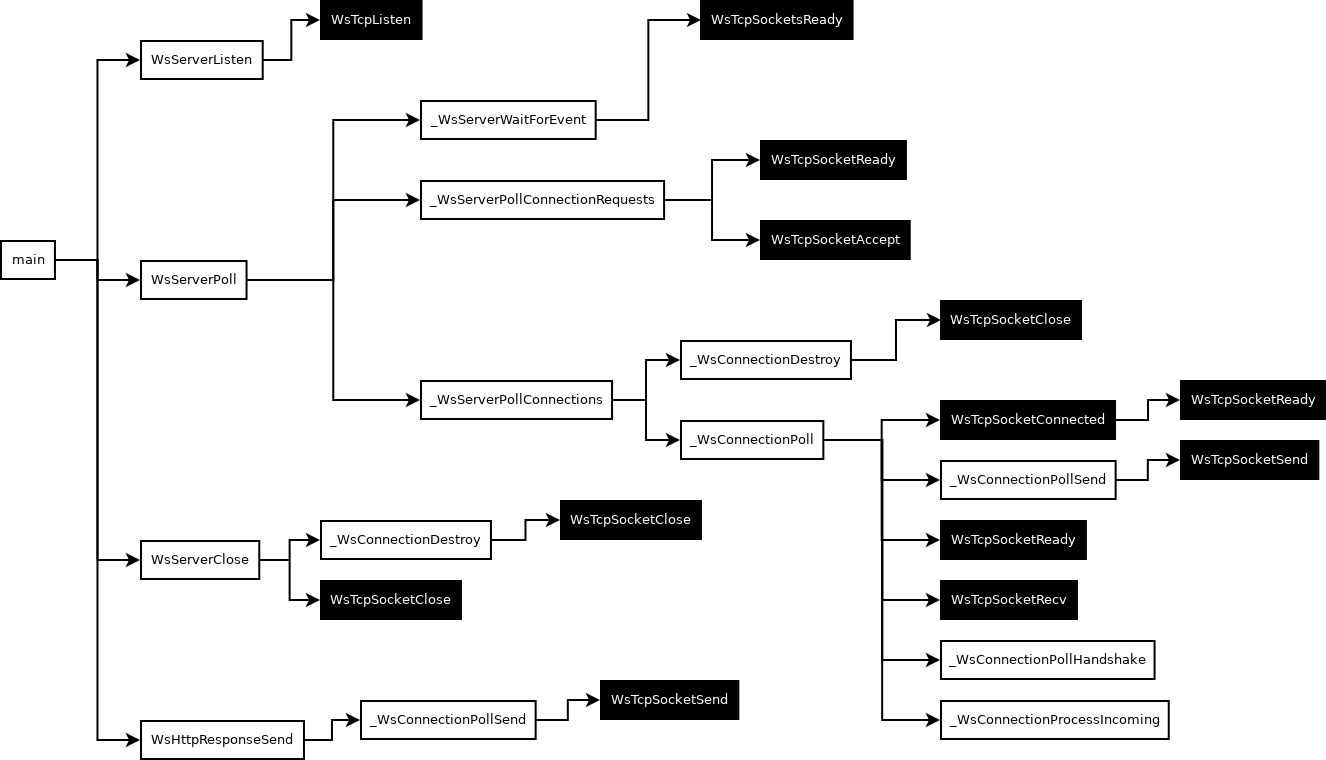
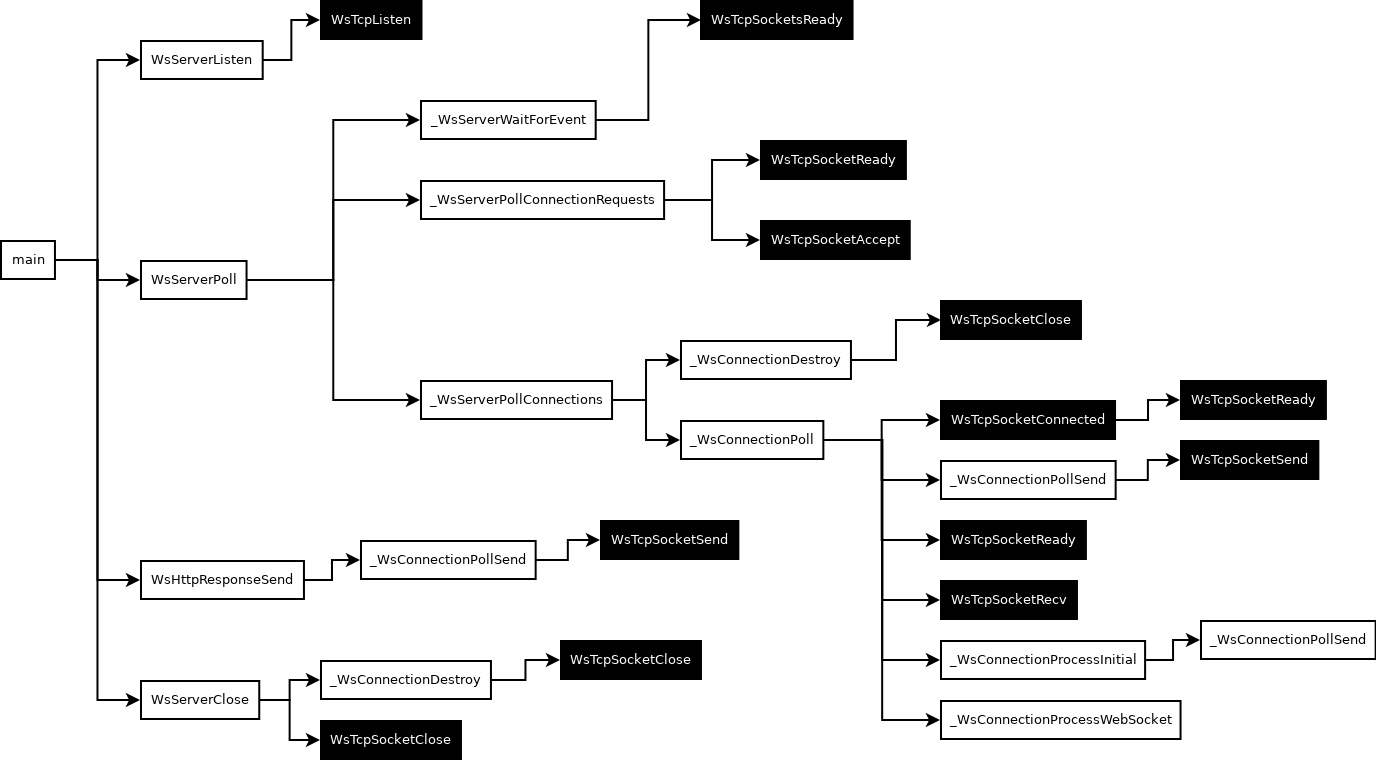
Updates to names. Improved frame diagram. Updated flow diagram.

diff --git a/src/ws/ws.c b/src/ws/ws.c
@@ -108,7 +108,7 @@ void _WsPollConnectionRequests(ref(WsServer) server)
   }
 }
 
-void _WsPollSend(ref(WsConnection) connection)
+void _WsConnectionPollSend(ref(WsConnection) connection)
 {
   /*
    * If the buffer is empty, early return.
@@ -185,11 +185,11 @@ void WsSend(ref(WsConnection) connection, vector(unsigned char) data)
     vector_push_back(_(connection).outgoing, vector_at(data, ci));
   }
 
-  _WsPollSend(connection);
+  _WsConnectionPollSend(connection);
 }
 
 /****************************************************************************
- * _WsPollConnectionInitial
+ * _WsConnectionProcessInitial
  *
  * If the header is complete, attempt handshake and send response. Ensure
  * that if there was trailing data that we move it to the beginning of the
@@ -203,7 +203,7 @@ void WsSend(ref(WsConnection) connection, vector(unsigned char) data)
  * Returns 1 if an event has occurred otherwise returns 0.
  *
  ****************************************************************************/
-int _WsPollConnectionInitial(ref(WsServer) server, ref(WsConnection) connection,
+int _WsConnectionProcessInitial(ref(WsServer) server, ref(WsConnection) connection,
   struct WsEvent *event)
 {
   size_t i = 0;
@@ -236,7 +236,7 @@ int _WsPollConnectionInitial(ref(WsServer) server, ref(WsConnection) connection,
       vector_size(_(connection).outgoing),
       response, 0, vector_size(response));
 
-    _WsPollSend(connection);
+    _WsConnectionPollSend(connection);
     vector_delete(response);
 /*
     vector_erase(_(connection).incoming, 0, nextStart);
@@ -269,7 +269,7 @@ int _WsPollConnectionInitial(ref(WsServer) server, ref(WsConnection) connection,
 }
 
 /****************************************************************************
- * _WsPollConnectionWebSocket
+ * _WsConnectionProcessWebSocket
  *
  * Attempt to decode incoming. If it fails, make assumption that the rest
  * of the data has not yet been received and continue. If data was decoded
@@ -282,7 +282,7 @@ int _WsPollConnectionInitial(ref(WsServer) server, ref(WsConnection) connection,
  * Returns 1 if an event has occurred otherwise returns 0.
  *
  ****************************************************************************/
-int _WsPollConnectionWebSocket(ref(WsServer) server, ref(WsConnection) connection,
+int _WsConnectionProcessWebSocket(ref(WsServer) server, ref(WsConnection) connection,
   struct WsEvent *event)
 {
   ref(WsMessageEvent) message = NULL;
@@ -348,7 +348,7 @@ int _WsPollConnectionWebSocket(ref(WsServer) server, ref(WsConnection) connectio
 }
 
 /****************************************************************************
- * _WsPollConnection
+ * _WsConnectionPoll
  *
  * Attempt to send outgoing. If there are any issues then disconnect. Read
  * bytes into incoming buffer if there are any available. If the buffer
@@ -362,7 +362,7 @@ int _WsPollConnectionWebSocket(ref(WsServer) server, ref(WsConnection) connectio
  * Returns 1 if an event has occurred otherwise returns 0.
  *
  ****************************************************************************/
-int _WsPollConnection(ref(WsServer) server, ref(WsConnection) connection,
+int _WsConnectionPoll(ref(WsServer) server, ref(WsConnection) connection,
   struct WsEvent *event)
 {
   ref(WsDisconnectEvent) disconnect = NULL;
@@ -405,7 +405,7 @@ int _WsPollConnection(ref(WsServer) server, ref(WsConnection) connection,
   /*
    * Flush any outgoing data
    */
-   _WsPollSend(connection);
+   _WsConnectionPollSend(connection);
 
   /*
    * If connection is Http and buffer is empty, assume that the
@@ -442,11 +442,11 @@ int _WsPollConnection(ref(WsServer) server, ref(WsConnection) connection,
 
   if(_(connection).state == WS_STATE_INITIAL)
   {
-    return _WsPollConnectionInitial(server, connection, event);
+    return _WsConnectionProcessInitial(server, connection, event);
   }
   else if(_(connection).state == WS_STATE_WEBSOCKET)
   {
-    return _WsPollConnectionWebSocket(server, connection, event);
+    return _WsConnectionProcessWebSocket(server, connection, event);
   }
 
   _WsPanic("Should not reach");
@@ -499,7 +499,7 @@ int _WsPollConnections(ref(WsServer) server, struct WsEvent *event)
 
     conn = vector_at(_(server).connections, ci);
 
-    if(_WsPollConnection(server, conn, event))
+    if(_WsConnectionPoll(server, conn, event))
     {
       rtn = 1;
 
@@ -696,7 +696,7 @@ void WsHttpResponseSend(ref(WsHttpResponse) ctx)
     vector_push_back(_(connection).outgoing, vector_at(_(ctx).data, ci));
   }
 
-  _WsPollSend(connection);
+  _WsConnectionPollSend(connection);
 }
 
 ref(sstream) WsHttpRequestPath(ref(WsHttpRequest) ctx)

diff --git a/src/ws/WebSocket.c b/src/ws/WebSocket.c
@@ -168,26 +168,46 @@ uint16_t f_uint16(uint8_t *value)
  * if enough bytes have been received for a complete message. If so add them
  * to the decoded buffer whilst unmasking them and return it.
  *
- * [ type            ]
- * [ length          ]
- * < extended length >
- * <                 >
- * < extended length >
- * <                 >
- * <                 >
- * <                 >
- * [ mask 1          ]
- * [ mask 2          ]
- * [ mask 3          ]
- * [ mask 4          ]
- * < data            >
+ * [ final           ] 1
+ * [ reserved1       ] 1
+ * [ reserved2       ] 1
+ * [ reserved3       ] 1
+ * [ opcode          ] 4
+ * [                 ]
+ * [                 ]
+ * [                 ]
+ * [ mask            ] 1
+ * [ payload_len     ] 7
+ * [                 ]
+ * [                 ]
+ * [                 ]
+ * [                 ]
+ * [                 ]
+ * [                 ]
+ * < extended_len    > 16 (if payload len == 126)
+ * <                 > 64 (if payload_len == 127)
+ * [ mask 1          ] 4
+ * [                 ]
+ * [                 ]
+ * [                 ]
+ * [ mask 2          ] 4
+ * [                 ]
+ * [                 ]
+ * [                 ]
+ * [ mask 3          ] 4
+ * [                 ]
+ * [                 ]
+ * [                 ]
+ * [ mask 4          ] 4
+ * [                 ]
+ * [                 ]
+ * [                 ]
+ * < data            > payload_len or extended_len
  *
- * frame     - The current buffer containing a potentially complete frame.
- * length    - The lengh of data (to avoid strlen).
- * decodeLen - Output the contained frames length (to avoid strlen).
- * end       - Output the position of the first byte of the next message.
+ * incoming - The buffer containing all currently received data.
+ * fi       - Out variable to populate with information about the frame.
  *
- * Returns the decoded frames message.
+ * Returns 1 if the incoming data contained a valid frame.
  *
  ****************************************************************************/
 char *_WsDecodeFrame(vector(unsigned char) incoming,
